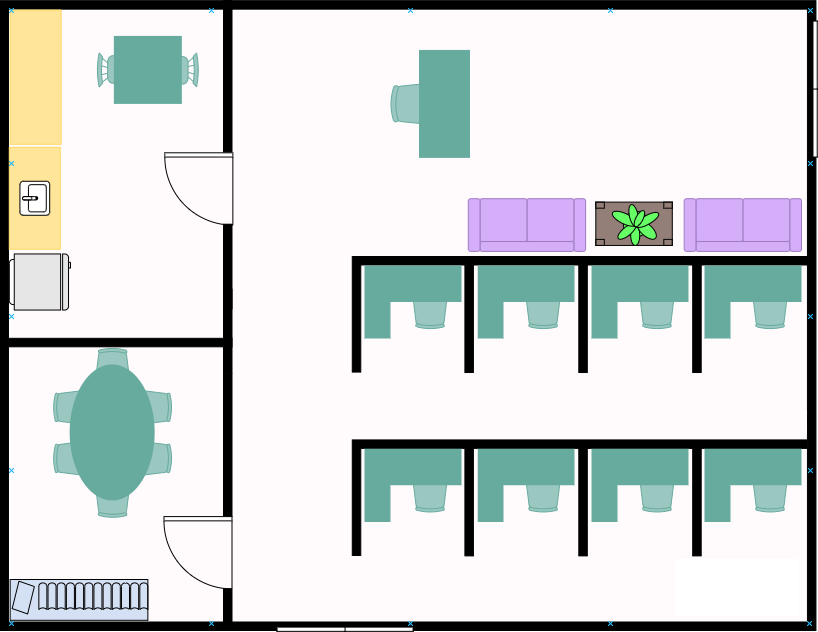
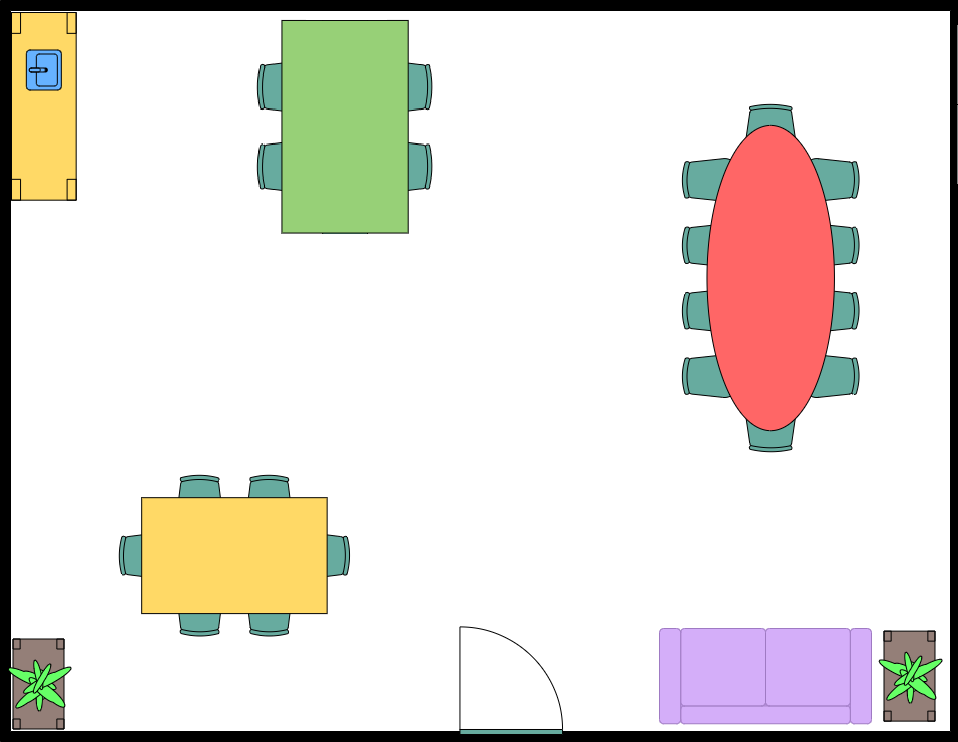
new Office Layout

diff --git a/src/Office/Office.js b/src/Office/Office.js
@@ -33,7 +33,7 @@ const Office = () => {
   // Avatar Movement with Arrow Keys
   useEffect(() => {
     const interval = setInterval(() => {
-      if (ArrowUp && top > 20) {
+      if (ArrowUp && top > 21) {
         setTop(top - 1);
       }
       if (ArrowDown && top < windowDimensions[0]) {
@@ -42,7 +42,7 @@ const Office = () => {
       if (ArrowRight && left < windowDimensions[1]) {
         setLeft(left + 1);
       }
-      if (ArrowLeft && left > 19) {
+      if (ArrowLeft && left > 21) {
         setLeft(left - 1);
       }
     }, 2);
@@ -128,18 +128,18 @@ function useKeyPress(targetKey) {
 function useWindowResize() {
   // MaxWidth equals to the office Width minus Avatar Diameter
   const [maxWindwoWidth, setMaxWindowWidth] = useState(
-    window.innerWidth - (window.innerWidth - 818) - 41
+    window.innerWidth - (window.innerWidth - 958) - 38
   );
 
   //MaxHeight equals to the office height minus avatar diameter
   const [maxWindowHeight, setMaxWindowHeight] = useState(
-    window.innerHeight - (window.innerHeight - 632) - 40
+    window.innerHeight - (window.innerHeight - 742) - 41
   );
 
   //Changes MaxWidth / MaxHeight on Windowresize
   function ResizeHandler() {
-    setMaxWindowWidth(window.innerWidth - (window.innerWidth - 818) - 41);
-    setMaxWindowHeight(window.innerHeight - (window.innerHeight - 632) - 40);
+    setMaxWindowWidth(window.innerWidth - (window.innerWidth - 958) - 38);
+    setMaxWindowHeight(window.innerHeight - (window.innerHeight - 742) - 41);
   }
   useEffect(() => {
     window.addEventListener("resize", ResizeHandler);

diff --git a/src/Office/RoomList.js b/src/Office/RoomList.js
@@ -9,38 +9,29 @@
 const RoomList = [
   {
     width: 214,
-    height: 328,
-    left: 19,
-    top: 20,
+    height: 248,
+    left: 248,
+    top: 22,
     name: "kitconcept-digital-office-123e4567-e89b-12d3-a456-426655440000",
-    title: "Kitchen",
+    title: "Green Table",
   },
 
   {
-    width: 214,
-    height: 274,
-    left: 19,
-    top: 357,
+    width: 232,
+    height: 396,
+    left: 665,
+    top: 85,
     name: "kitconcept-digital-office-123e4567-e89b-12d3-a456-426655440001",
-    title: "Meeting-Room",
+    title: "Red-Table",
   },
 
   {
-    width: 103,
-    height: 108,
-    left: 372,
-    top: 275,
+    width: 280,
+    height: 208,
+    left: 105,
+    top: 457,
     name: "kitconcept-digital-office-123e4567-e89b-12d3-a456-426655440002",
-    title: "Desk 1",
-  },
-
-  {
-    width: 104,
-    height: 108,
-    left: 484,
-    top: 275,
-    name: "kitconcept-digital-office-123e4567-e89b-12d3-a456-426655440003",
-    title: "Desk 2",
+    title: "Yellow Table",
   },
 ];
 

diff --git a/src/App.css b/src/App.css
@@ -1,7 +1,7 @@
 .Office {
   background-image: url("./assets/OfficeFloor.PNG");
-  width: 818px;
-  height: 632px;
+  width: 958px;
+  height: 742px;
   margin: 10px;
 }
 
@@ -22,14 +22,11 @@
   box-shadow: inset 0 0 15px #333;
 }
 
-.Wall {
-  position: absolute;
-  background-color: yellow;
-  opacity: 70%;
-}
 .Room {
   position: absolute;
   text-align: center;
+  border-style: dotted;
+  padding: 5px;
 }
 
 .Options {
